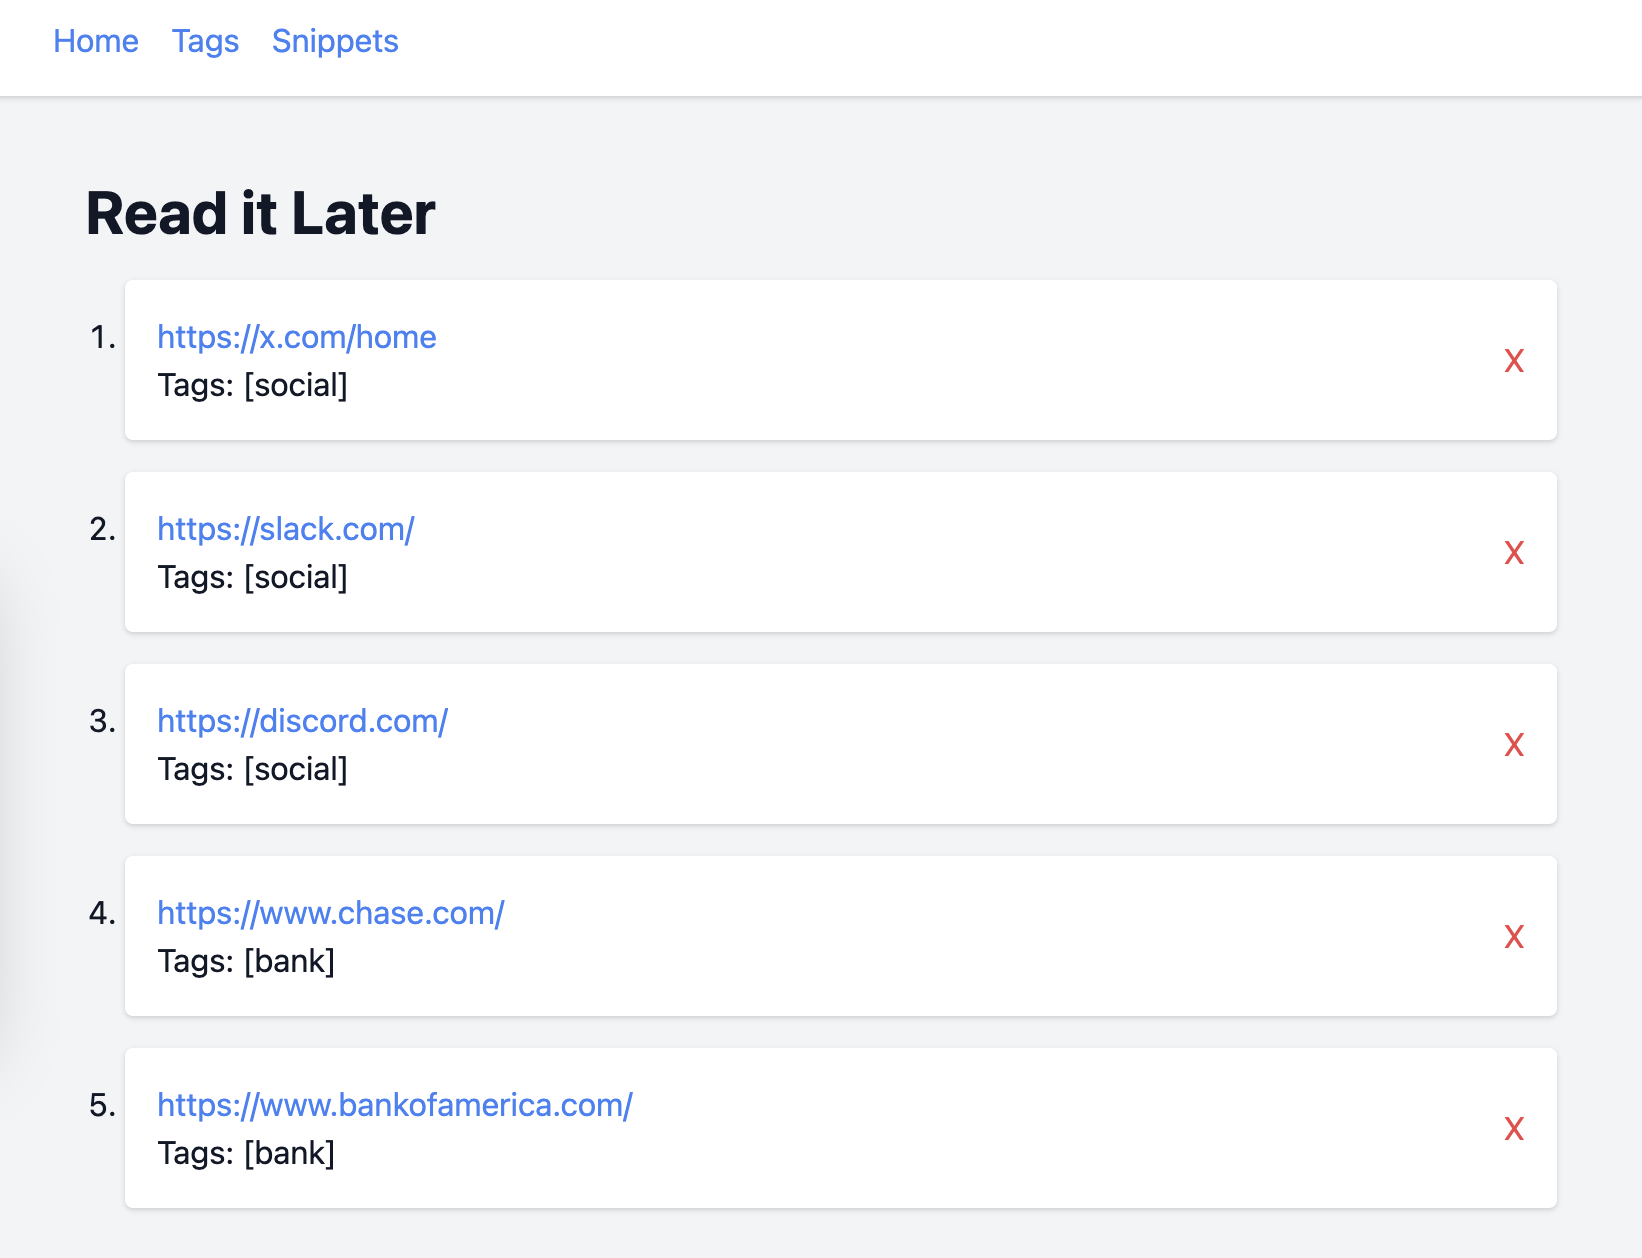
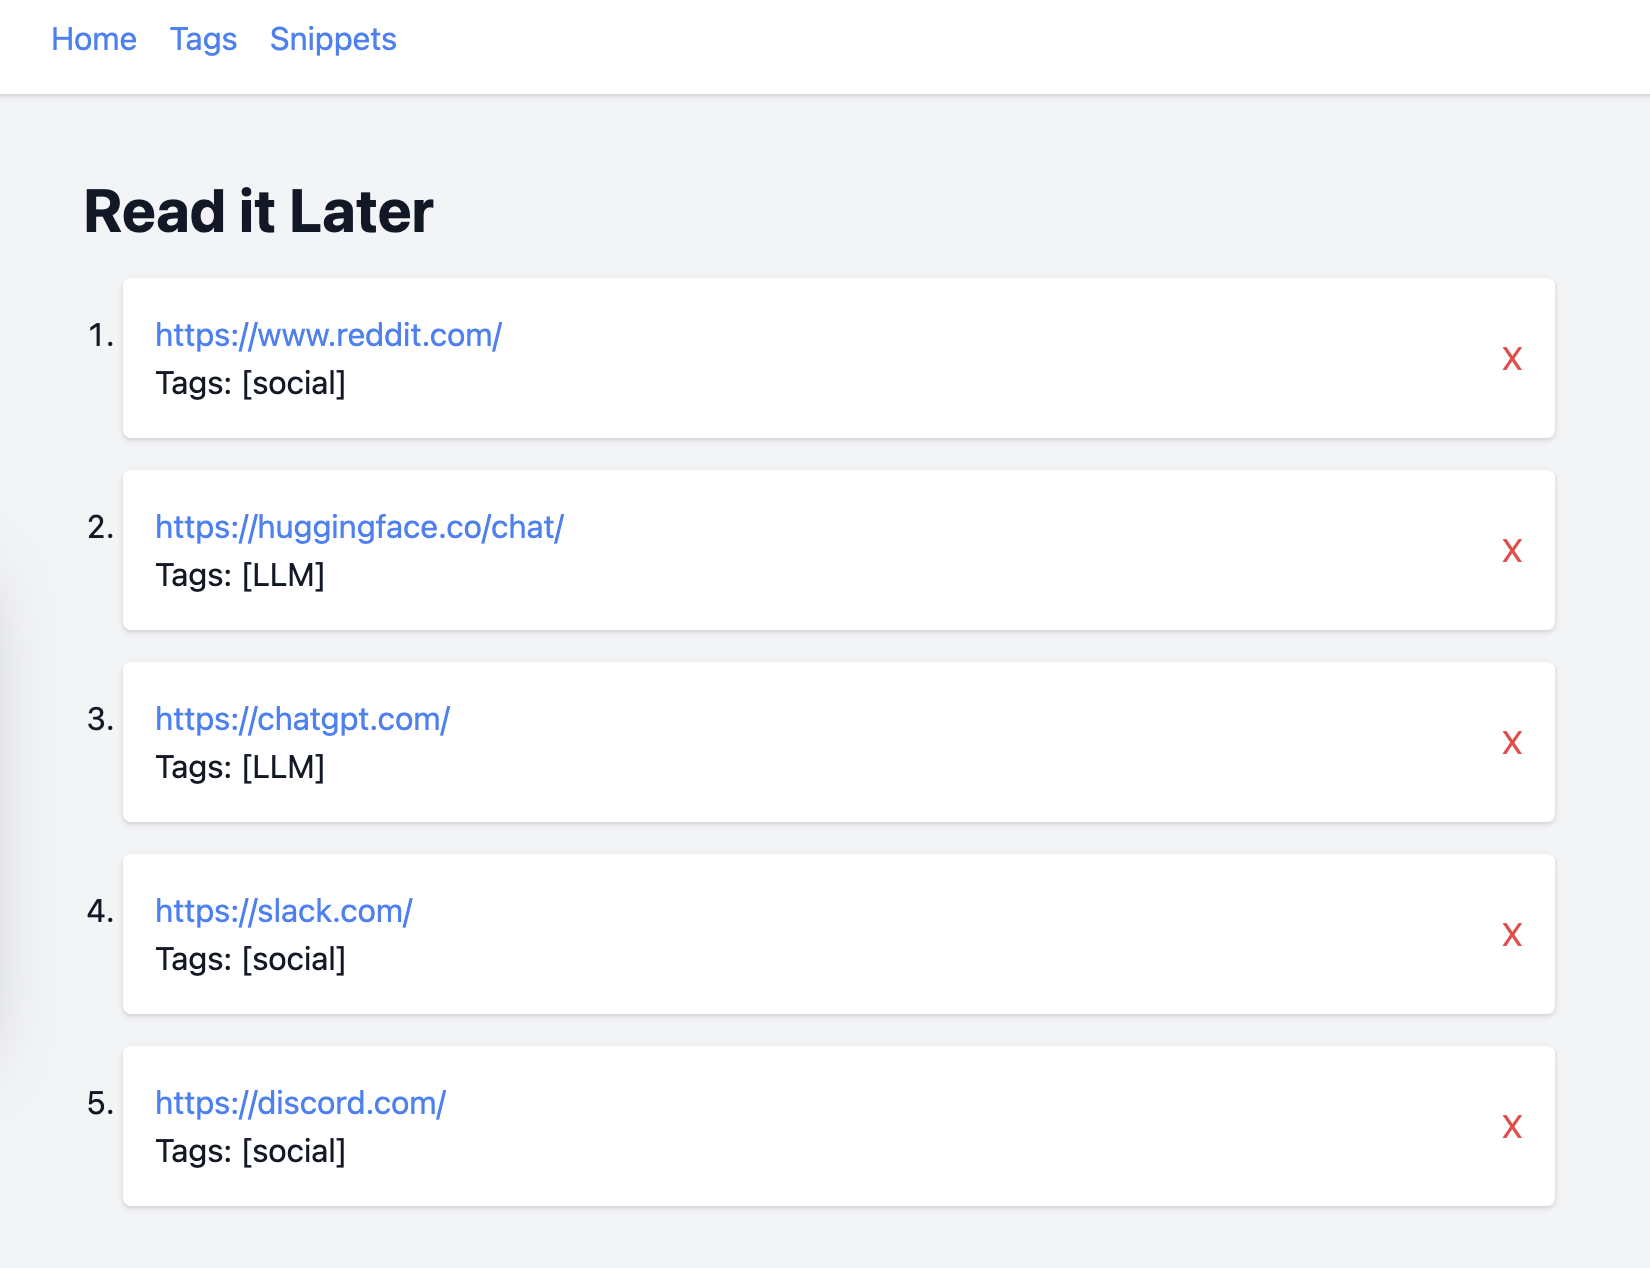
Update images; fix saving tags for snippets

diff --git a/templates/tags.html b/templates/tags.html
@@ -68,6 +68,15 @@
                                 <div>
                                     <div>{{ snippet.snippet }}</div>
                                     <div>URL: <a href="{{ snippet.url }}" target="_blank" class="text-blue-500 hover:underline">{{ snippet.url }}</a></div>
+                                    <div>Tags: 
+                                        {% if snippet.tags | length > 0 %}
+                                            {% for tag in snippet.tags %}
+                                                {{ tag }}{% if not loop.last %}, {% endif %}
+                                            {% endfor %}
+                                        {% else %}
+                                            []
+                                        {% endif %}
+                                    </div>
                                 </div>
                                 <button onclick="submitDeleteSnippet(event, {{ snippet.id }})" class="text-red-500 hover:text-red-700">X</button>
                             </div>

diff --git a/chrome-extension/popup.js b/chrome-extension/popup.js
@@ -35,6 +35,7 @@ function handleSnippet(tabUrl, snippet, statusElement, tagsInput) {
     // Set up the button click handler for sending snippets
     sendSnippetButton.addEventListener("click", async () => {
         const tags = tagsList.join(",");
+        console.log("Sending snippet with tags:", tags); // Log the tags being sent
 
         try {
             chrome.runtime.sendMessage(
@@ -52,6 +53,14 @@ function handleSnippet(tabUrl, snippet, statusElement, tagsInput) {
         } catch (error) {
             console.error("Failed to send snippet:", error);
             statusElement.textContent = `Error: ${error.message}`;
+        }
+    });
+
+    // Allow submitting snippet by hitting Enter
+    tagsInput.addEventListener("keydown", async function (event) {
+        if (event.key === "Enter") {
+            event.preventDefault();
+            sendSnippetButton.click();
         }
     });
 }

diff --git a/templates/snippets.html b/templates/snippets.html
@@ -39,7 +39,9 @@
                             <div>URL: <a href="{{ snippet_with_tags.url }}" target="_blank" class="text-blue-500 hover:underline">{{ snippet_with_tags.url }}</a></div>
                             <div>Tags: 
                                 {% if snippet_with_tags.tags | length > 0 %}
-                                    {{ snippet_with_tags.tags }}
+                                    {% for tag in snippet_with_tags.tags %}
+                                        {{ tag }}{% if not loop.last %}, {% endif %}
+                                    {% endfor %}
                                 {% else %}
                                     []
                                 {% endif %}

diff --git a/chrome-extension/background.js b/chrome-extension/background.js
@@ -61,6 +61,8 @@ chrome.runtime.onMessage.addListener((message, sender, sendResponse) => {
 
         return true;
     } else if (message.action === "sendSnippet") {
+        console.log("Sending snippet with tags:", message.tags); // Log the tags being sent
+
         fetch("http://localhost:8080/snippets", {
             method: "POST",
             headers: {

diff --git a/src/services/database.rs b/src/services/database.rs
@@ -93,12 +93,28 @@ pub async fn create_snippets_table(db_pool: &PgPool) -> Result<(), Error> {
     Ok(())
 }
 
+/// Create the `snippet_tags` join table
+pub async fn create_snippet_tags_table(db_pool: &PgPool) -> Result<(), Error> {
+    let query = r#"
+        CREATE TABLE IF NOT EXISTS snippet_tags (
+            id SERIAL PRIMARY KEY,
+            snippet_id INTEGER NOT NULL REFERENCES snippets(id) ON DELETE CASCADE,
+            tag_id INTEGER NOT NULL REFERENCES tags(id) ON DELETE CASCADE,
+            UNIQUE (snippet_id, tag_id)
+        )
+    "#;
+
+    sqlx::query(query).execute(db_pool).await?;
+    Ok(())
+}
+
 /// Initialize all database tables
 pub async fn initialize_tables(db_pool: &PgPool) -> Result<(), Error> {
     create_urls_table(db_pool).await?;
     create_tags_table(db_pool).await?;
     create_url_tags_table(db_pool).await?;
     create_snippets_table(db_pool).await?;
+    create_snippet_tags_table(db_pool).await?;
     Ok(())
 }
 
@@ -144,6 +160,41 @@ pub async fn insert_snippet(db_pool: &PgPool, url: &str, snippet: &str, tags: &[
         .bind(tags)
         .fetch_one(db_pool)
         .await?;
+
+    // Ensure tags are added to the tags table and linked to the snippet
+    for tag in tags {
+        let tag_query = r#"
+            INSERT INTO tags (tag)
+            VALUES ($1)
+            ON CONFLICT (tag) DO NOTHING
+            RETURNING id
+        "#;
+
+        let tag_id: i32 = match sqlx::query_scalar(tag_query).bind(tag).fetch_one(db_pool).await {
+            Ok(id) => id,
+            Err(sqlx::Error::RowNotFound) => {
+                // If the tag exists but isn't returned, fetch its ID directly
+                sqlx::query_scalar("SELECT id FROM tags WHERE tag = $1")
+                    .bind(tag)
+                    .fetch_one(db_pool)
+                    .await?
+            }
+            Err(err) => return Err(err),
+        };
+
+        // Link the snippet and tag in the `snippet_tags` table
+        let snippet_tag_query = r#"
+            INSERT INTO snippet_tags (snippet_id, tag_id)
+            VALUES ($1, $2)
+            ON CONFLICT (snippet_id, tag_id) DO NOTHING
+        "#;
+
+        sqlx::query(snippet_tag_query)
+            .bind(snippet_id)
+            .bind(tag_id)
+            .execute(db_pool)
+            .await?;
+    }
 
     Ok(snippet_id)
 }
@@ -216,6 +267,7 @@ pub async fn remove_unused_tags(db_pool: &PgPool) -> Result<(), Error> {
     let query = r#"
         DELETE FROM tags
         WHERE id NOT IN (SELECT tag_id FROM url_tags)
+          AND id NOT IN (SELECT tag_id FROM snippet_tags)
     "#;
 
     sqlx::query(query).execute(db_pool).await?;
@@ -321,7 +373,8 @@ pub async fn get_tags_with_urls_and_snippets(db_pool: &PgPool) -> Result<Vec<Tag
         FROM tags
         LEFT JOIN url_tags ON tags.id = url_tags.tag_id
         LEFT JOIN urls ON url_tags.url_id = urls.id
-        LEFT JOIN snippets ON tags.tag = ANY(snippets.tags)
+        LEFT JOIN snippet_tags ON tags.id = snippet_tags.tag_id
+        LEFT JOIN snippets ON snippet_tags.snippet_id = snippets.id
         GROUP BY tags.tag
         UNION
         SELECT unnest(snippets.tags) AS tag,

diff --git a/src/services/api.rs b/src/services/api.rs
@@ -232,6 +232,9 @@ pub struct NewSnippet {
 async fn insert_snippet(db_pool: web::Data<PgPool>, req: web::Json<NewSnippet>) -> impl Responder {
     let tags: Vec<&str> = req.tags.split(',').map(|tag| tag.trim()).collect();
 
+    // Log the received tags for debugging
+    println!("Received tags for snippet: {:?}", tags);
+
     match database::insert_snippet(db_pool.get_ref(), &req.url, &req.snippet, &tags).await {
         Ok(_) => HttpResponse::Ok().json("Snippet inserted successfully"),
         Err(err) => {
@@ -253,7 +256,13 @@ async fn delete_snippet(db_pool: web::Data<PgPool>, req: web::Json<DeleteSnippet
     let result = database::delete_snippet(db_pool.get_ref(), req.id).await;
 
     match result {
-        Ok(_) => HttpResponse::Ok().json("Snippet deleted successfully"),
+        Ok(_) => {
+            // Call the background job to remove unused tags
+            if let Err(err) = database::remove_unused_tags(db_pool.get_ref()).await {
+                eprintln!("Failed to remove unused tags: {:?}", err);
+            }
+            HttpResponse::Ok().json("Snippet deleted successfully")
+        }
         Err(err) => {
             eprintln!("Failed to delete snippet: {:?}", err);
             HttpResponse::InternalServerError().json("Failed to delete snippet")
